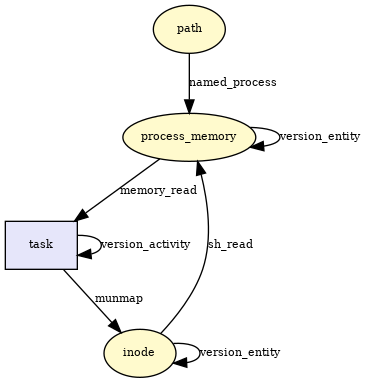
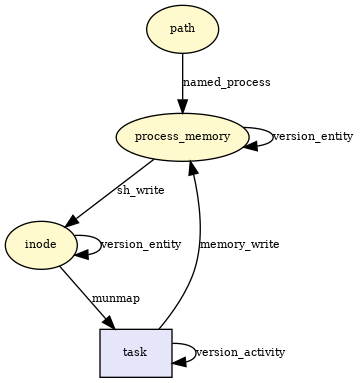
revert commit fd6c87a

diff --git a/security/provenance/hooks.c b/security/provenance/hooks.c
@@ -1308,15 +1308,15 @@ static int provenance_mmap_file(struct file *file,
 	if ((flags & MAP_TYPE) == MAP_SHARED
 	    || (flags & MAP_TYPE) == MAP_SHARED_VALIDATE) {
 		if ((prot & (PROT_WRITE)) != 0)
-			rc = generates(RL_MMAP_WRITE, cprov, tprov, iprov, file, flags);
+			rc = uses(RL_MMAP_WRITE, iprov, tprov, cprov, file, flags);
 		if (rc < 0)
 			goto out;
 		if ((prot & (PROT_READ)) != 0)
-			rc = generates(RL_MMAP_READ, cprov, tprov, iprov, file, flags);
+			rc = uses(RL_MMAP_READ, iprov, tprov, cprov, file, flags);
 		if (rc < 0)
 			goto out;
 		if ((prot & (PROT_EXEC)) != 0)
-			rc = generates(RL_MMAP_EXEC, cprov, tprov, iprov, file, flags);
+			rc = uses(RL_MMAP_EXEC, iprov, tprov, cprov, file, flags);
 	} else{
 		bprov = branch_mmap(iprov, cprov);
 		if (!bprov)
@@ -1325,15 +1325,15 @@ static int provenance_mmap_file(struct file *file,
 		if (rc < 0)
 			goto out;
 		if ((prot & (PROT_WRITE)) != 0)
-			rc = generates(RL_MMAP_WRITE, cprov, tprov, bprov, file, flags);
+			rc = uses(RL_MMAP_WRITE, bprov, tprov, cprov, file, flags);
 		if (rc < 0)
 			goto out;
 		if ((prot & (PROT_READ)) != 0)
-			rc = generates(RL_MMAP_READ, cprov, tprov, bprov, file, flags);
+			rc = uses(RL_MMAP_READ, bprov, tprov, cprov, file, flags);
 		if (rc < 0)
 			goto out;
 		if ((prot & (PROT_EXEC)) != 0)
-			rc = generates(RL_MMAP_EXEC, cprov, tprov, bprov, file, flags);
+			rc = uses(RL_MMAP_EXEC, bprov, tprov, cprov, file, flags);
 	}
 out:
 	spin_unlock(prov_lock(iprov));
@@ -1376,7 +1376,7 @@ static void provenance_mmap_munmap(struct mm_struct *mm,
 			iprov = file_provenance(mmapf, false);
 			spin_lock_irqsave_nested(prov_lock(cprov), irqflags, PROVENANCE_LOCK_PROC);
 			spin_lock_nested(prov_lock(iprov), PROVENANCE_LOCK_INODE);
-			generates(RL_MUNMAP, cprov, tprov, iprov, mmapf, flags);
+			uses(RL_MUNMAP, iprov, tprov, cprov, mmapf, flags);
 			spin_unlock(prov_lock(iprov));
 			spin_unlock_irqrestore(prov_lock(cprov), irqflags);
 		}
